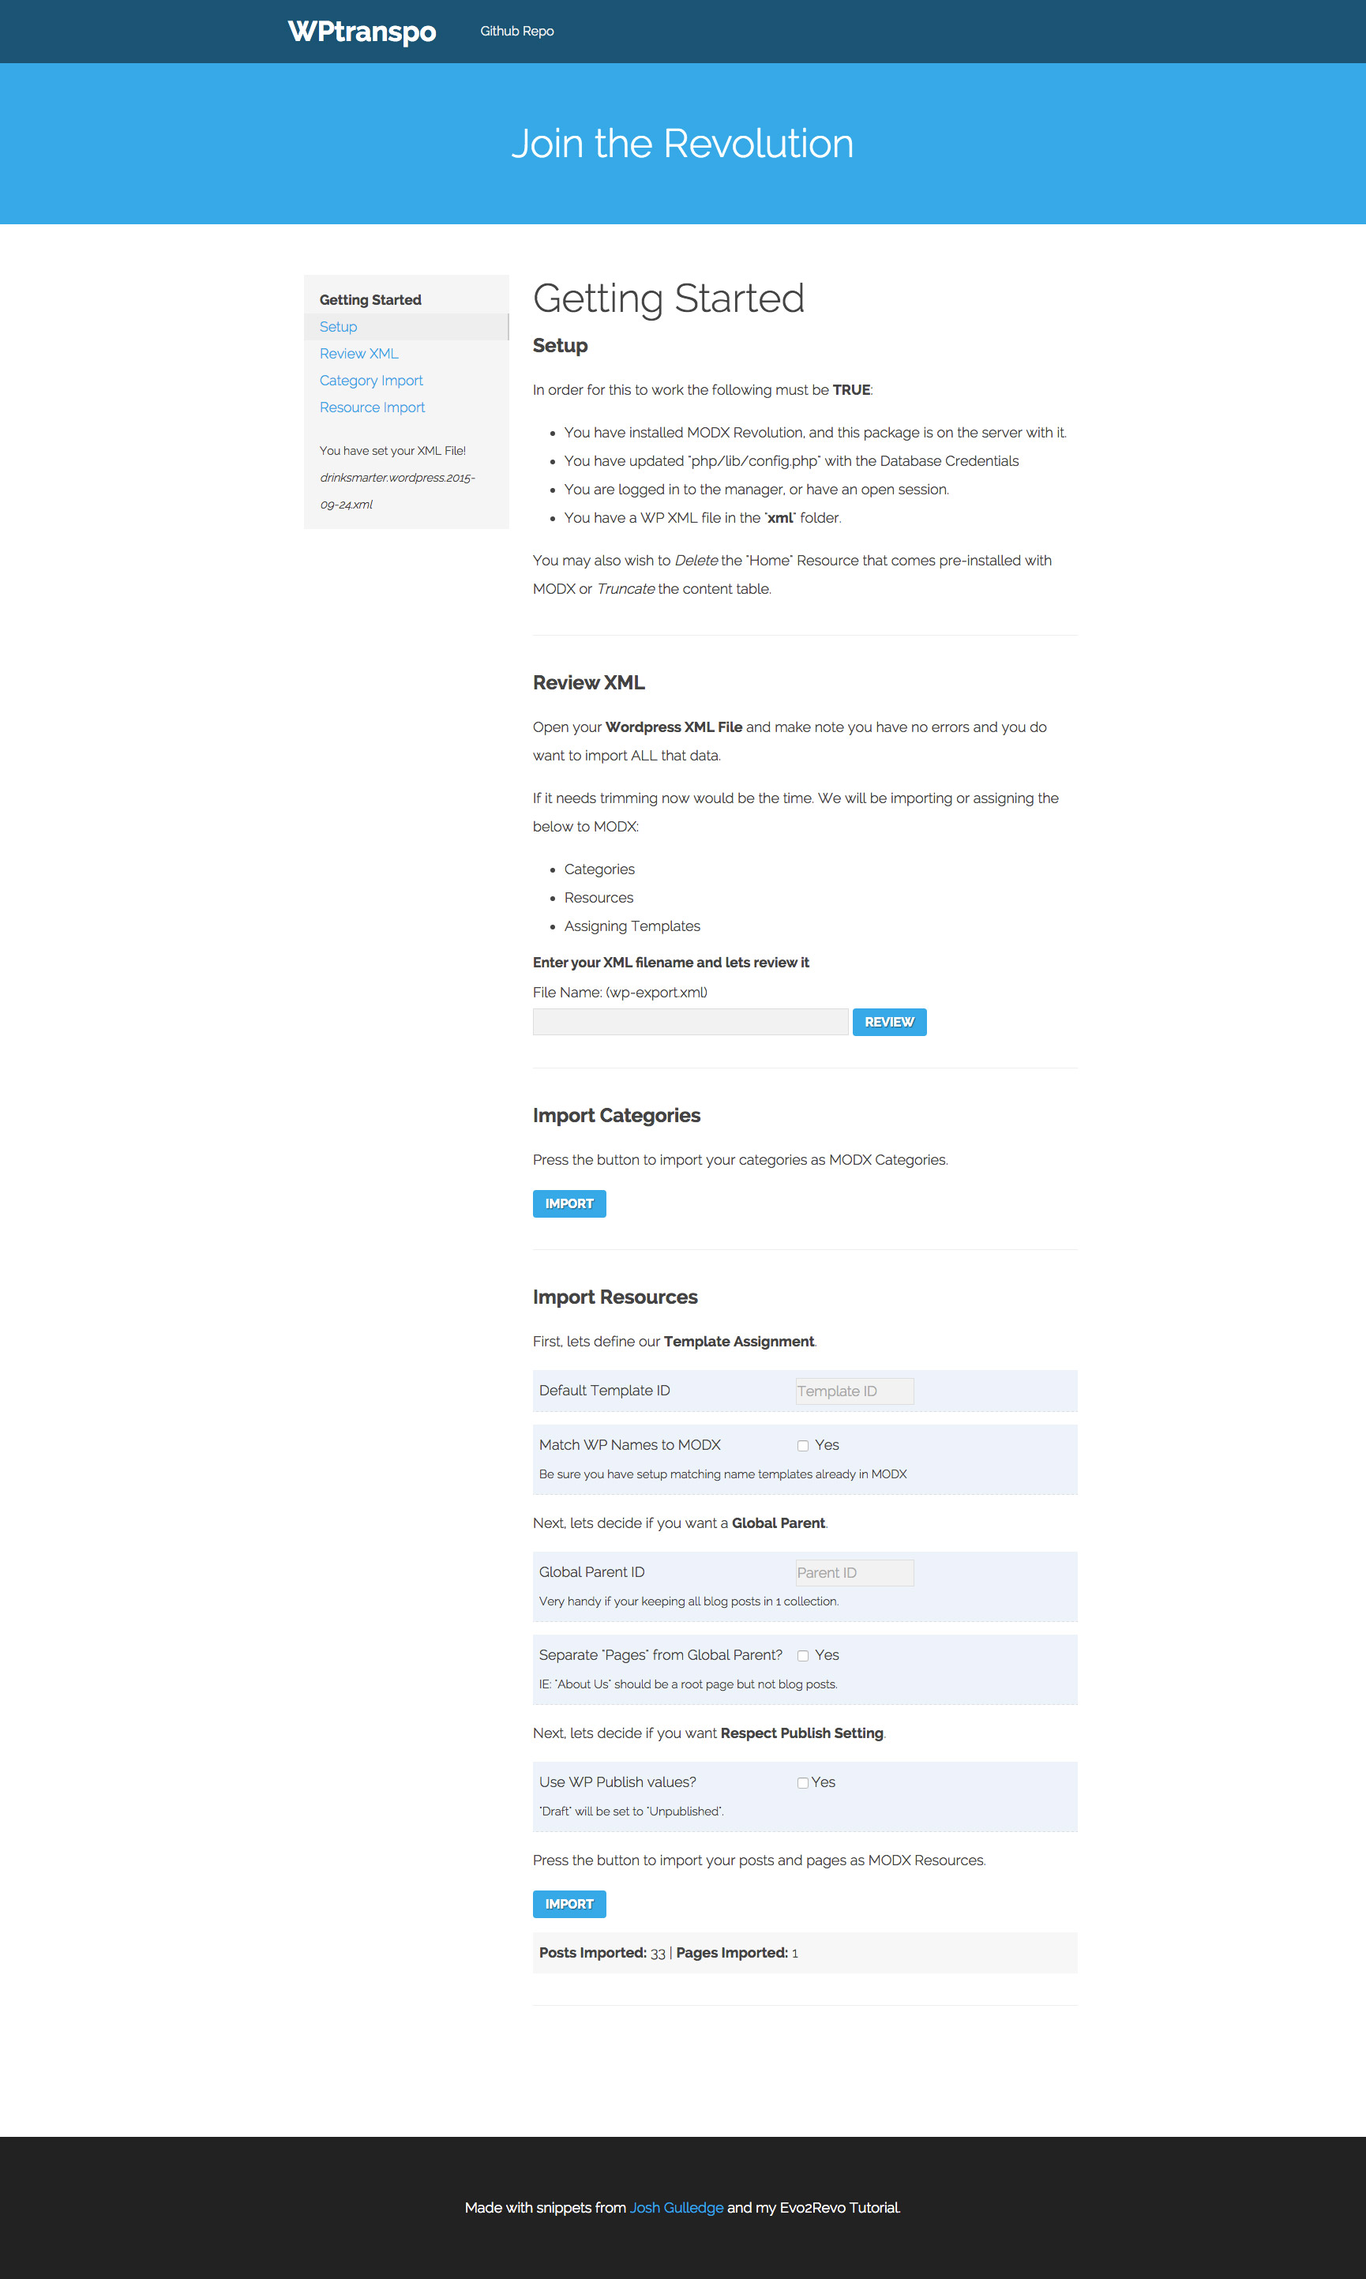
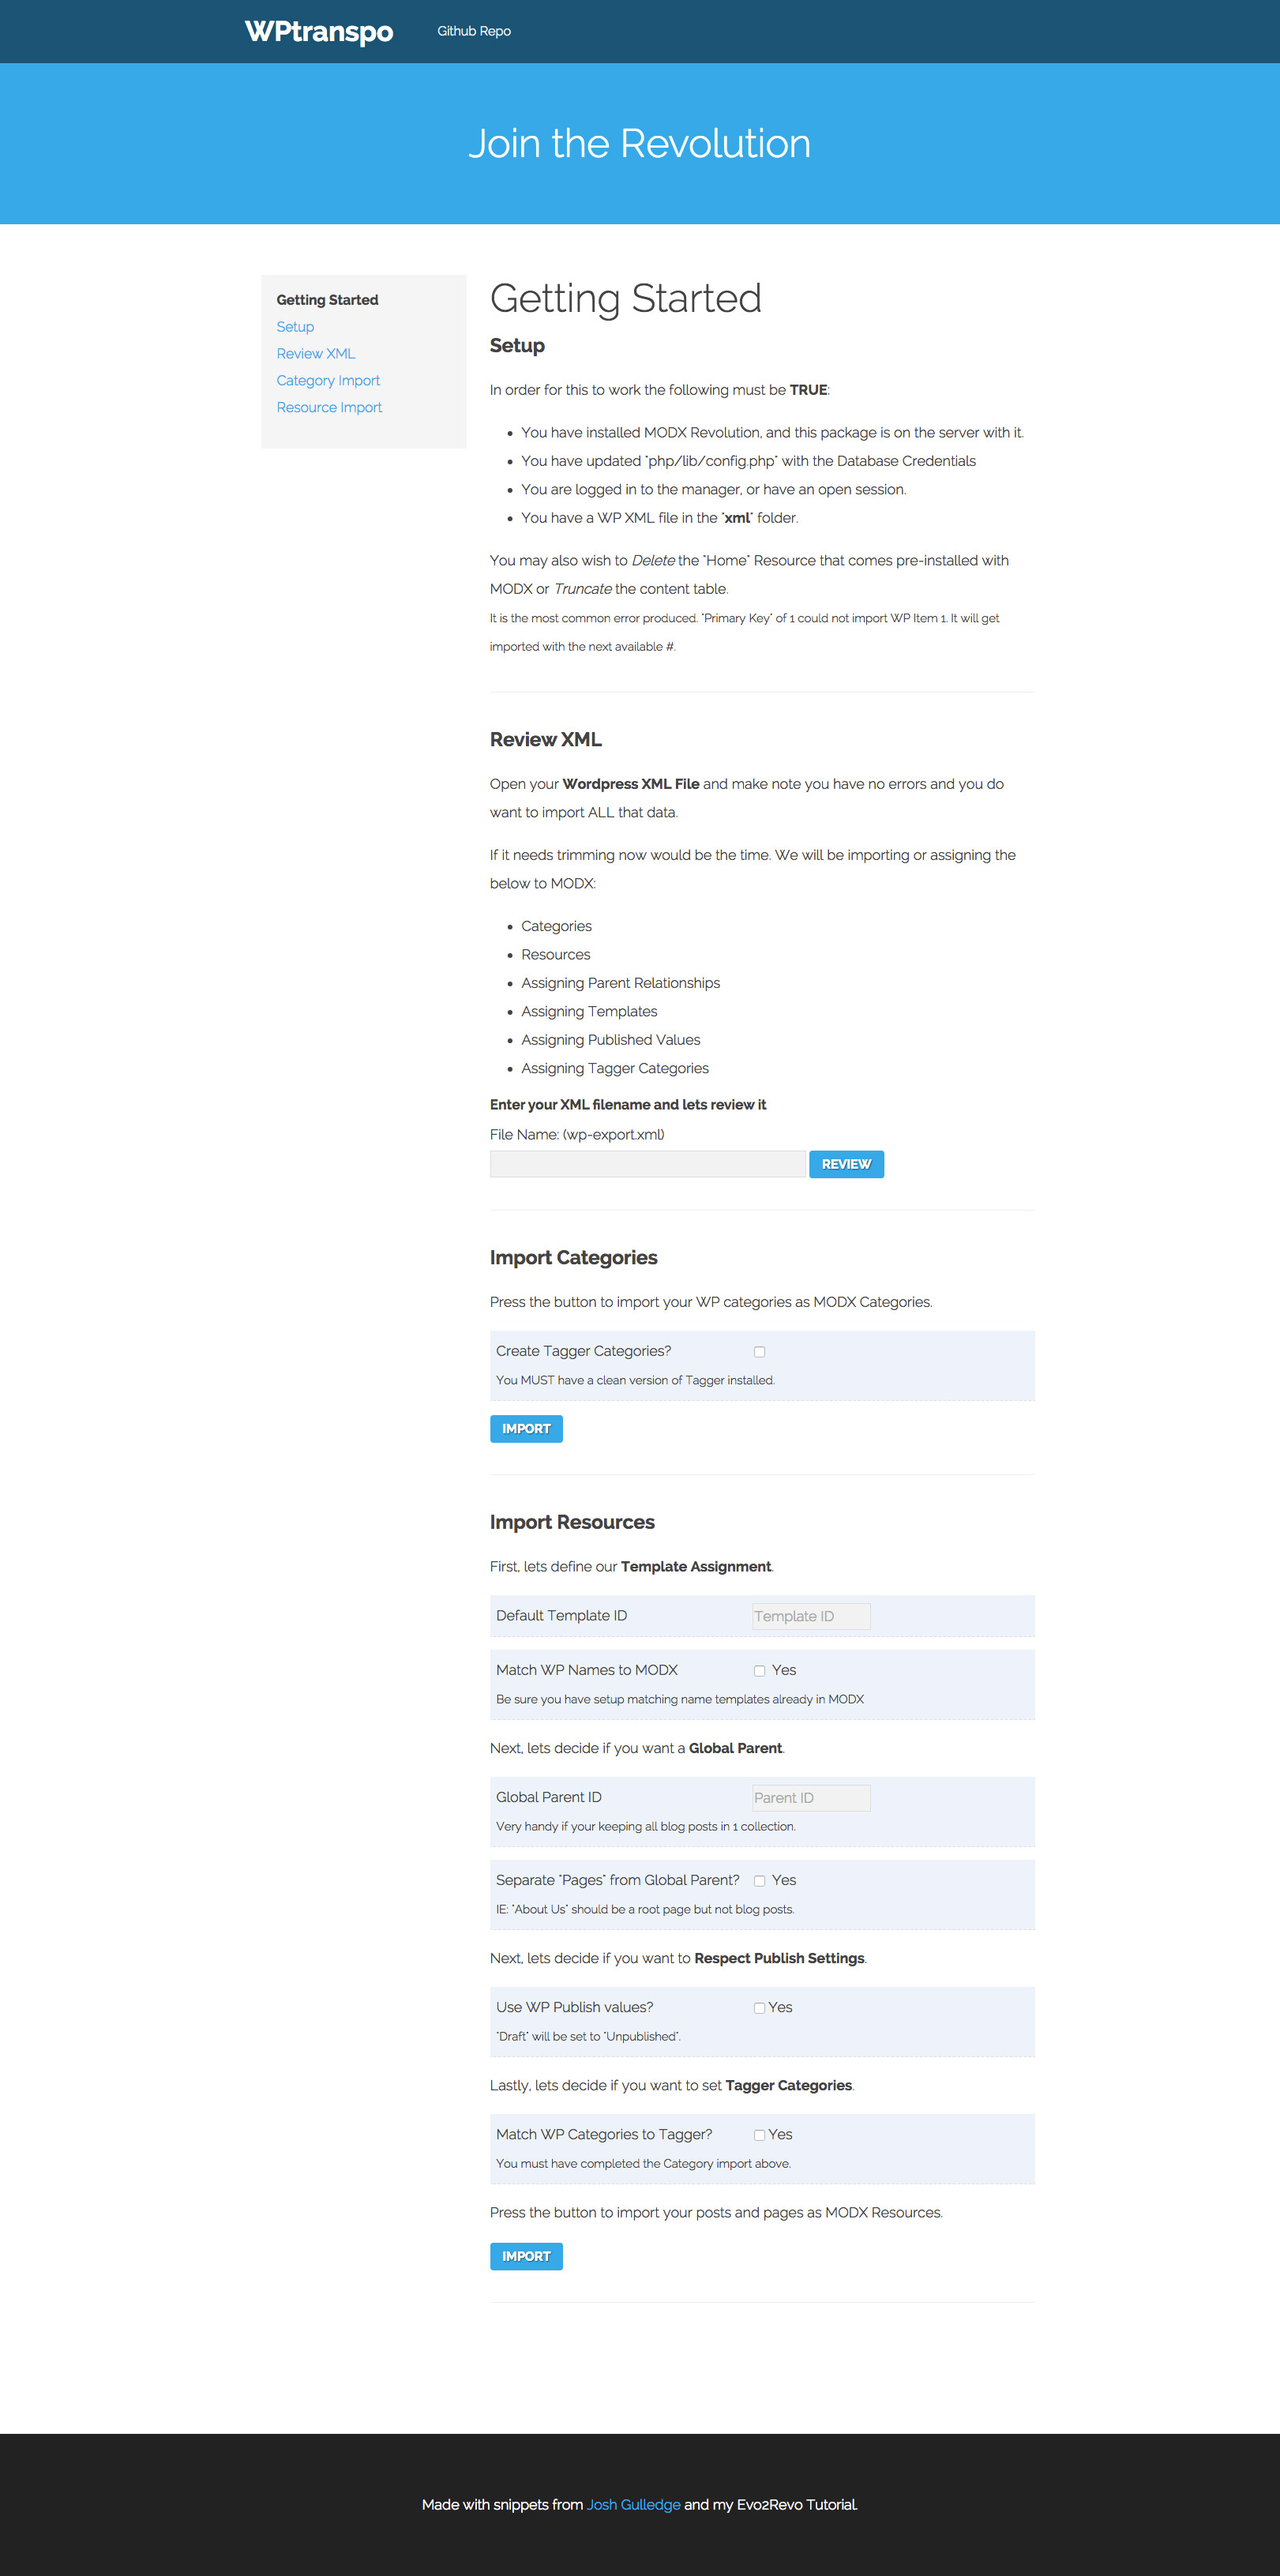
Import Categories to Tagger

Changed region(s): [[0.0, 0.0, 1.0, 0.9044], [0.0, 0.9356, 1.0, 0.9979], [0.6169, 0.4366, 0.7094, 0.4678]]

diff --git a/index.php b/index.php
@@ -56,8 +56,8 @@ $ResSuccess = $Resources_Section->res_import($_POST, $xmlFileName);
                 </li>
                 <li><a href="#setup" class=" ">Setup</a></li>
                 <li><a href="#review" class=" ">Review XML</a></li>
+                <li><a href="#import-cate" class=" ">Category Import</a></li>
                 <li><a href="#import-res" class=" ">Resource Import</a></li>
-                <!--<li><a href="#import-cate" class=" ">Category Import</a></li>-->
                 <li class="separator"></li>
                 <li><small><? if(isset($_COOKIE["WPTranspoFile"])){ echo "You have set your XML File! <em>".$_COOKIE["WPTranspoFile"]; } ?></em></small></li>
             </ul>
@@ -72,7 +72,8 @@ $ResSuccess = $Resources_Section->res_import($_POST, $xmlFileName);
                     <li>You have a WP XML file in the "<strong>xml</strong>" folder.</li>
                 </ul>
 
-                <p>You may also wish to <em>Delete</em> the "Home" Resource that comes pre-installed with MODX or <em>Truncate</em> the content table.</p>
+                <p>You may also wish to <em>Delete</em> the "Home" Resource that comes pre-installed with MODX or <em>Truncate</em> the content table.<br>
+                    <small>It is the most common error produced. "Primary Key" of 1 could not import WP Item 1. It will get imported with the next available #.</small></p>
 
                 <hr>
 
@@ -86,6 +87,7 @@ $ResSuccess = $Resources_Section->res_import($_POST, $xmlFileName);
                     <li>Assigning Parent Relationships</li>
                     <li>Assigning Templates</li>
                     <li>Assigning Published Values</li>
+                    <li>Assigning Tagger Categories</li>
                 </ul>
 
                 <h4>Enter your XML filename and lets review it</h4>
@@ -97,6 +99,26 @@ $ResSuccess = $Resources_Section->res_import($_POST, $xmlFileName);
                     </form>
                 </div>
                 <div class="response-section"><?php echo $filesuccess; ?></div>
+
+                <hr>
+
+                <h3 id="import-cate">Import Categories</h3>
+                <p>Press the button to import your WP categories as MODX Categories.</p>
+                <div id="cate-section">
+                    <form method="post" action="<?php echo $_SERVER['PHP_SELF']; ?>#cate-section">
+                        <div id="res-section">
+                            <div class="config--div">
+                                <label for="tplTagger">Create Tagger Categories?</label>
+                                <input type="checkbox" value="1" name="tplTagger" id="tplTagger">
+                                <br>
+                                <small>You MUST have a clean version of Tagger installed.</small>
+                            </div>
+
+                        </div>
+                        <button id="catesubmit" name="catesubmit">IMPORT</button>
+                    </form>
+                </div>
+                <div class="response-section"><?php echo $CateSuccess; ?></div>
 
                 <hr>
 
@@ -134,7 +156,13 @@ $ResSuccess = $Resources_Section->res_import($_POST, $xmlFileName);
                             <br>
                             <small>"Draft" will be set to "Unpublished".</small>
                         </div>
-
+                        <p>Lastly, lets decide if you want to set <strong>Tagger Categories</strong>.</p>
+                        <div class="config--div">
+                            <label for="taggerCate">Match WP Categories to Tagger?</label>
+                            <input type="checkbox" name="taggerCate" id="taggerCate" value="1">Yes
+                            <br>
+                            <small>You must have completed the Category import above.</small>
+                        </div>
 
                         <p>Press the button to import your posts and pages as MODX Resources.</p>
 
@@ -145,17 +173,6 @@ $ResSuccess = $Resources_Section->res_import($_POST, $xmlFileName);
 
                 <hr>
 
-                <!--<h3 id="import-cate">Import Categories</h3>
-                <p>Press the button to import your WP categories as MODX Categories and as <strong>Tagger</strong> Categories.</p>
-                <p><strong>You MUST have a clean version of Tagger installed.</strong></p>
-                <div id="cate-section">
-                    <form method="post" action="<?php echo $_SERVER['PHP_SELF']; ?>#cate-section">
-                        <button id="catesubmit" name="catesubmit">IMPORT</button>
-                    </form>
-                </div>
-                <div class="response-section"><?php echo $CateSuccess; ?></div>
-
-                <hr>-->
 
                 <br><br>
 

diff --git a/php/import-resources.php b/php/import-resources.php
@@ -17,6 +17,8 @@ class Resources_Section {
             if(empty($_POST["tplPublish"])){$tplPublish = false; } else { $tplPublish = $_POST["tplPublish"]; }
             if(empty($_POST["tplParent"])){$tplParent = false; } else { $tplParent = $_POST["tplParent"]; }
             if(empty($_POST["tplPageParent"])){$tplPageParent = false; } else { $tplPageParent = $_POST["tplPageParent"]; }
+            if(empty($_POST["taggerCate"])){$taggerCate = false; } else { $taggerCate = $_POST["taggerCate"]; }
+
 
             //get posts
             foreach ($xml->channel->item as $post) {
@@ -33,6 +35,25 @@ class Resources_Section {
                 $template = "";
                 $publish = "0";
                 $pub_date =  strtotime((string)$post->pubDate); if (empty($pub_date)) {$pub_date = strtotime((string)$wp->post_date);}
+
+                //set tagger categories
+                $tagId = "";
+                if($taggerCate){
+                    //loop through <category domain="category" nicename="functional-spirits"><![CDATA[Functional Spirits]]></category>
+                    foreach( $post->category as $c){
+                        if($c["domain"] == "category"){$categoryTemp = $c["nicename"];}
+                    }
+                    //check for tag
+                    $tag_query = "SELECT * FROM modx_tagger_tags";
+                    if ($tag_result = $mysqli->query($tag_query)) {
+                        while ($row = $tag_result->fetch_array()) {
+                            //if name matches set it
+                            if($row["alias"] == $categoryTemp){
+                                $tagId = $row["id"];
+                            }
+                        }
+                    }
+                }
 
                 //if Respect Publish setting
                 if($tplPublish){
@@ -91,6 +112,10 @@ class Resources_Section {
                     $result = $mysqli->query($insert);
                     if ( $result ) {
                         $postsData[] = $pt;
+                        //we are inside matching ID success so we can add Tag now
+                        $tagInsert = "INSERT INTO `modx_tagger_tag_resources` (`tag`,`resource`) VALUES ('".$tagId."','".$id."')";
+                        $tresult = $mysqli->query($tagInsert);
+
                     } else {
                         //try again with no ID, it might have been taken by preset
                         $reinsert = "INSERT INTO `modx_site_content` (`pagetitle`,`introtext`,`content`,`parent`,`template`,`menuindex,`publishedon`,`published`) VALUES ('".$pt."','".$it."','".$content."','".$parent."','".$template."','".$menuIndex."','".$pub_date."','".$publish."')";
@@ -125,7 +150,8 @@ class Resources_Section {
                         if(!$result_two){printf("%s\n", $mysqli->error);}
                     }
                 }
-            }
+
+            } //for each item
 
 
             return '<p><strong>Imported With No Errors:</strong> Posts: '.count($postsData).' | Pages: '.count($pageData).'</p><p><strong>Errors:</strong> Posts: '.count($postsDataErrors).' | Pages: '.count($pageDataErrors).'</p>';

diff --git a/php/import-categories.php b/php/import-categories.php
@@ -7,16 +7,29 @@ class Category_Section {
 
             $xml = processXML($xmlFileName);
 
+            //post variables
+            if(empty($_POST["tplTagger"])){ $tplTagger = false;} else { $tplTagger = $_POST["tplTagger"]; }
+
+
             //get categories
             $cateData = array();
             foreach ($xml->channel as $post) {
 
                 foreach ($post->children('wp',true)->category as $c){
                     $cn = parseContent((string)$c->cat_name);
+                    $al = $c->category_nicename;
+
                     if ( $cn ) {
                         $insert = "INSERT INTO `modx_categories` (`category`) VALUES ('".$cn."')";
                         $result = $mysqli->query($insert);
                         $cateData[] = $cn;
+
+                        if($tplTagger){
+                            $cateInsert = "INSERT INTO `modx_tagger_groups` (`id`,`name`,`alias`,`field_type`,`allow_blank`,`show_for_templates`,`place`) VALUES ('1','Category','category','tagger-combo-tag','1','1,2,3,4,5','in-tab')";
+                            $tagInsert = "INSERT INTO `modx_tagger_tags` (`tag`,`alias`,`group`) VALUES ('".$cn."','".$al."','1')";
+                            $cresult = $mysqli->query($cateInsert);
+                            $tresult = $mysqli->query($tagInsert);
+                        }
                     }
                 }
 
